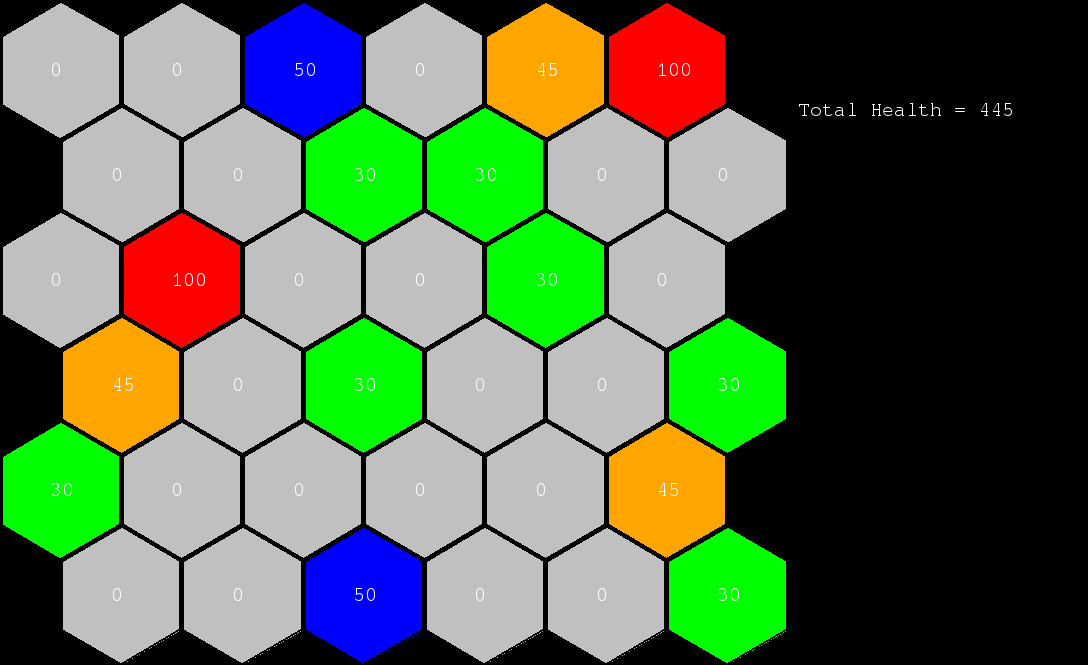
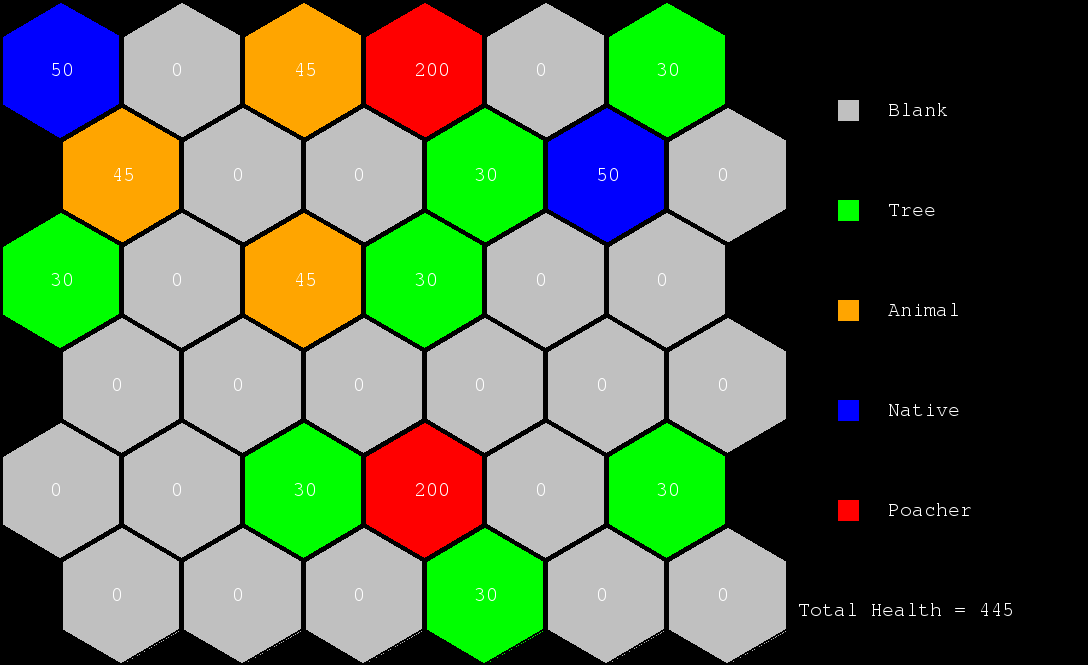
Minimal GUI and harder game

diff --git a/pop_ui.py b/pop_ui.py
@@ -1,11 +1,13 @@
+#! /usr/bin/env python2
 from math import sin, cos, pi, sqrt
 import pygame
 from pop import *
-
+X_L1 = 50
+Y_L1 = 100
 X_OFFSET_1 = 10
-Y_OFFSET_1 = 100
+Y_OFFSET_1 = 600
 X_OFFSET_2 = 300
-Y_OFFSET_2 = 200
+Y_OFFSET_2 = 700
 SIDE = 70
 THETA = pi / 3.0
 h_THETA = pi / 6.0
@@ -95,26 +97,37 @@ def get_user_move(gameQuit):
                 quit()
             elif stposGiven and event.type == pygame.MOUSEBUTTONDOWN:
                 finishPos = get_cell_no(pygame.mouse.get_pos())
-                print "Final Position given"
+                print "->", finishPos
                 flposGiven = True
                 return startPos, finishPos
             elif event.type == pygame.MOUSEBUTTONDOWN:
                 startPos = get_cell_no(pygame.mouse.get_pos())
-                print "Starting Position Given"
+                print startPos,
                 stposGiven = True
     return startPos, finishPos
+def draw_legend():
+    x = BOARD_WIDTH + X_L1
+    y = Y_L1
+    myfont = pygame.font.SysFont("monospace", 20)
+    for index in range(5):
+         pygame.draw.polygon(gameDisplay, colours[index], [(x, y), (x + 20, y), (x + 20, y + 20), (x, y + 20)])
+         label = myfont.render(idxrev[index], 1, (255, 255, 255))
+         gameDisplay.blit(label, (x + 50, y))
+         y += Y_L1
+    pygame.display.update()
 
 def uigame():
     turn = 0
     illegal = 0
     board = init()
     draw_canvas(board)
+    draw_legend()
     pygame.image.save(gameDisplay, 'full_house.png')
-    printBoard(board)
     while turn < n["Turn"]:
         if (illegal > 10):
             print "Too many illegal moves! Aborting game"
             return
+        print "\n @@@ Your move @@@\n"
         startPos, finishPos = get_user_move(gameQuit)
         r = getReach2Cells(board[0], startPos[0], startPos[1])
         if (board[0][startPos[0]][startPos[1]]["idx"] != 3):
@@ -131,16 +144,11 @@ def uigame():
             illegal += 1
             continue
         draw_canvas (newBoard)
-        printBoard (newBoard)
         board = copy.deepcopy(newBoard)
-        print "Natives, Poachers = ", board[1:]
-        print "\n\n $--> Computer's move\n\n"
         ret_Board, ret_move = MaxValuePoacher(board, 0)
         draw_canvas (ret_Board)
-        printBoard (ret_Board)
         print "\n\n $--> Computer made move :\n\n %r -> [%d, %d]\n" % (ret_move[3], ret_move[0], ret_move[1])
         board = copy.deepcopy(ret_Board)
-        print "Natives, Poachers = ", board[1:]
         if (tothealth(board[0]) < safelevel):
             print "You lose!!!"
             return

diff --git a/pop.py b/pop.py
@@ -1,4 +1,4 @@
-
+#! /usr/bin/env python2
 import traceback
 import random
 import math
@@ -8,10 +8,10 @@ boost = 5
 n = {"Tree": 7, "Animal": 3, "Native": 2, "Poacher": 2, "Blank": 22, "Tot": 14, "Row": 6, "Turn": 20, "depMiniMax": 1}
 idx = {"Tree": 1, "Animal": 2, "Native": 3, "Poacher": 4, "Blank": 0}
 idxrev = { 1:"Tree", 2:"Animal", 3:"Native", 4:"Poacher", 0:"Blank"}
-health = {"Tree": 30, "Animal": 45, "Native": 50, "Poacher": 100, "Blank": 0}
+health = {"Tree": 30, "Animal": 45, "Native": 50, "Poacher": 200, "Blank": 0}
 hit = {"Animal": {"Native": 15, "Poacher": 25}, "Native": {"Poacher": 10, "Tree": 30, "Animal": 50}, "Poacher": {"Native": 15, "Tree": 15, "Animal": 20}}
 blank = {"idx": 0, "health": 0}
-safelevel = 200
+safelevel = 300
 
 def printBoard (board):
     bslash1 = '\  '
@@ -107,8 +107,8 @@ def tothealth(board):
         for j in range(len(board[0])):
             if board[i][j]["idx"] != idx["Poacher"]:
                 hlth += board[i][j]["health"]
-            else:
-                hlth += (5 * (health["Poacher"] - board[i][j]["health"]))
+            #else:
+                #hlth += (5 * (health["Poacher"] - board[i][j]["health"]))
     return hlth
 
 def evaluate(board, isplayer):
@@ -171,7 +171,7 @@ def evaluate(board, isplayer):
 
 def environEffect(board):
     remainMem = copy.deepcopy(board[1:])
-    print "Env effect : ", remainMem
+    # print "Env effect : ", remainMem
     for native in board[1]:
         neighbors = getNeighbor(board[0], native[0], native[1])
         for neigh in neighbors:
@@ -196,7 +196,7 @@ def environEffect(board):
                 board[0][poacher[0]][poacher[1]] = copy.deepcopy(blank)
     board[1] = copy.deepcopy(remainMem[0])
     board[2] = copy.deepcopy(remainMem[1])
-    print "\n\t\t", remainMem
+    # print "\n\t\t", remainMem
 
 def checkMove(oldBoard, idxUser, startPos, finishPos, plantTree = 0):
     try:
@@ -380,7 +380,7 @@ def asciigame():
             continue
         printBoard(newBoard)
         board = copy.deepcopy(newBoard)
-        print "\n\n $--> Computer's move\n\n"
+        print "\n\n @@@ Computer's move @@@\n\n"
         ret_Board, ret_move = MaxValuePoacher(board, 0)
         printBoard (ret_Board)
         print "\n\n $--> Computer made move :\n\n %r -> [%d, %d]\n" % (ret_move[3], ret_move[0], ret_move[1])

diff --git a/README.md b/README.md
@@ -79,3 +79,9 @@ Since the board is randomly initialized, there is no fixed character placement. 
 
 ### Character Animantion
 * There is not much animation in the game, as of now. The only movement, which might seem to be animation, is the spontaneous movement of the characters from one cell to another.
+
+### Instructions
+* To start terminal based game, run the file `pop.py` with python2. From project's root folder run:
+`python2 ./pop.py`
+* To start the more interactive ui version of the game, run `pop_ui.py`. From the root folder of the project run:
+`python2 ./pop_ui.py`.  
